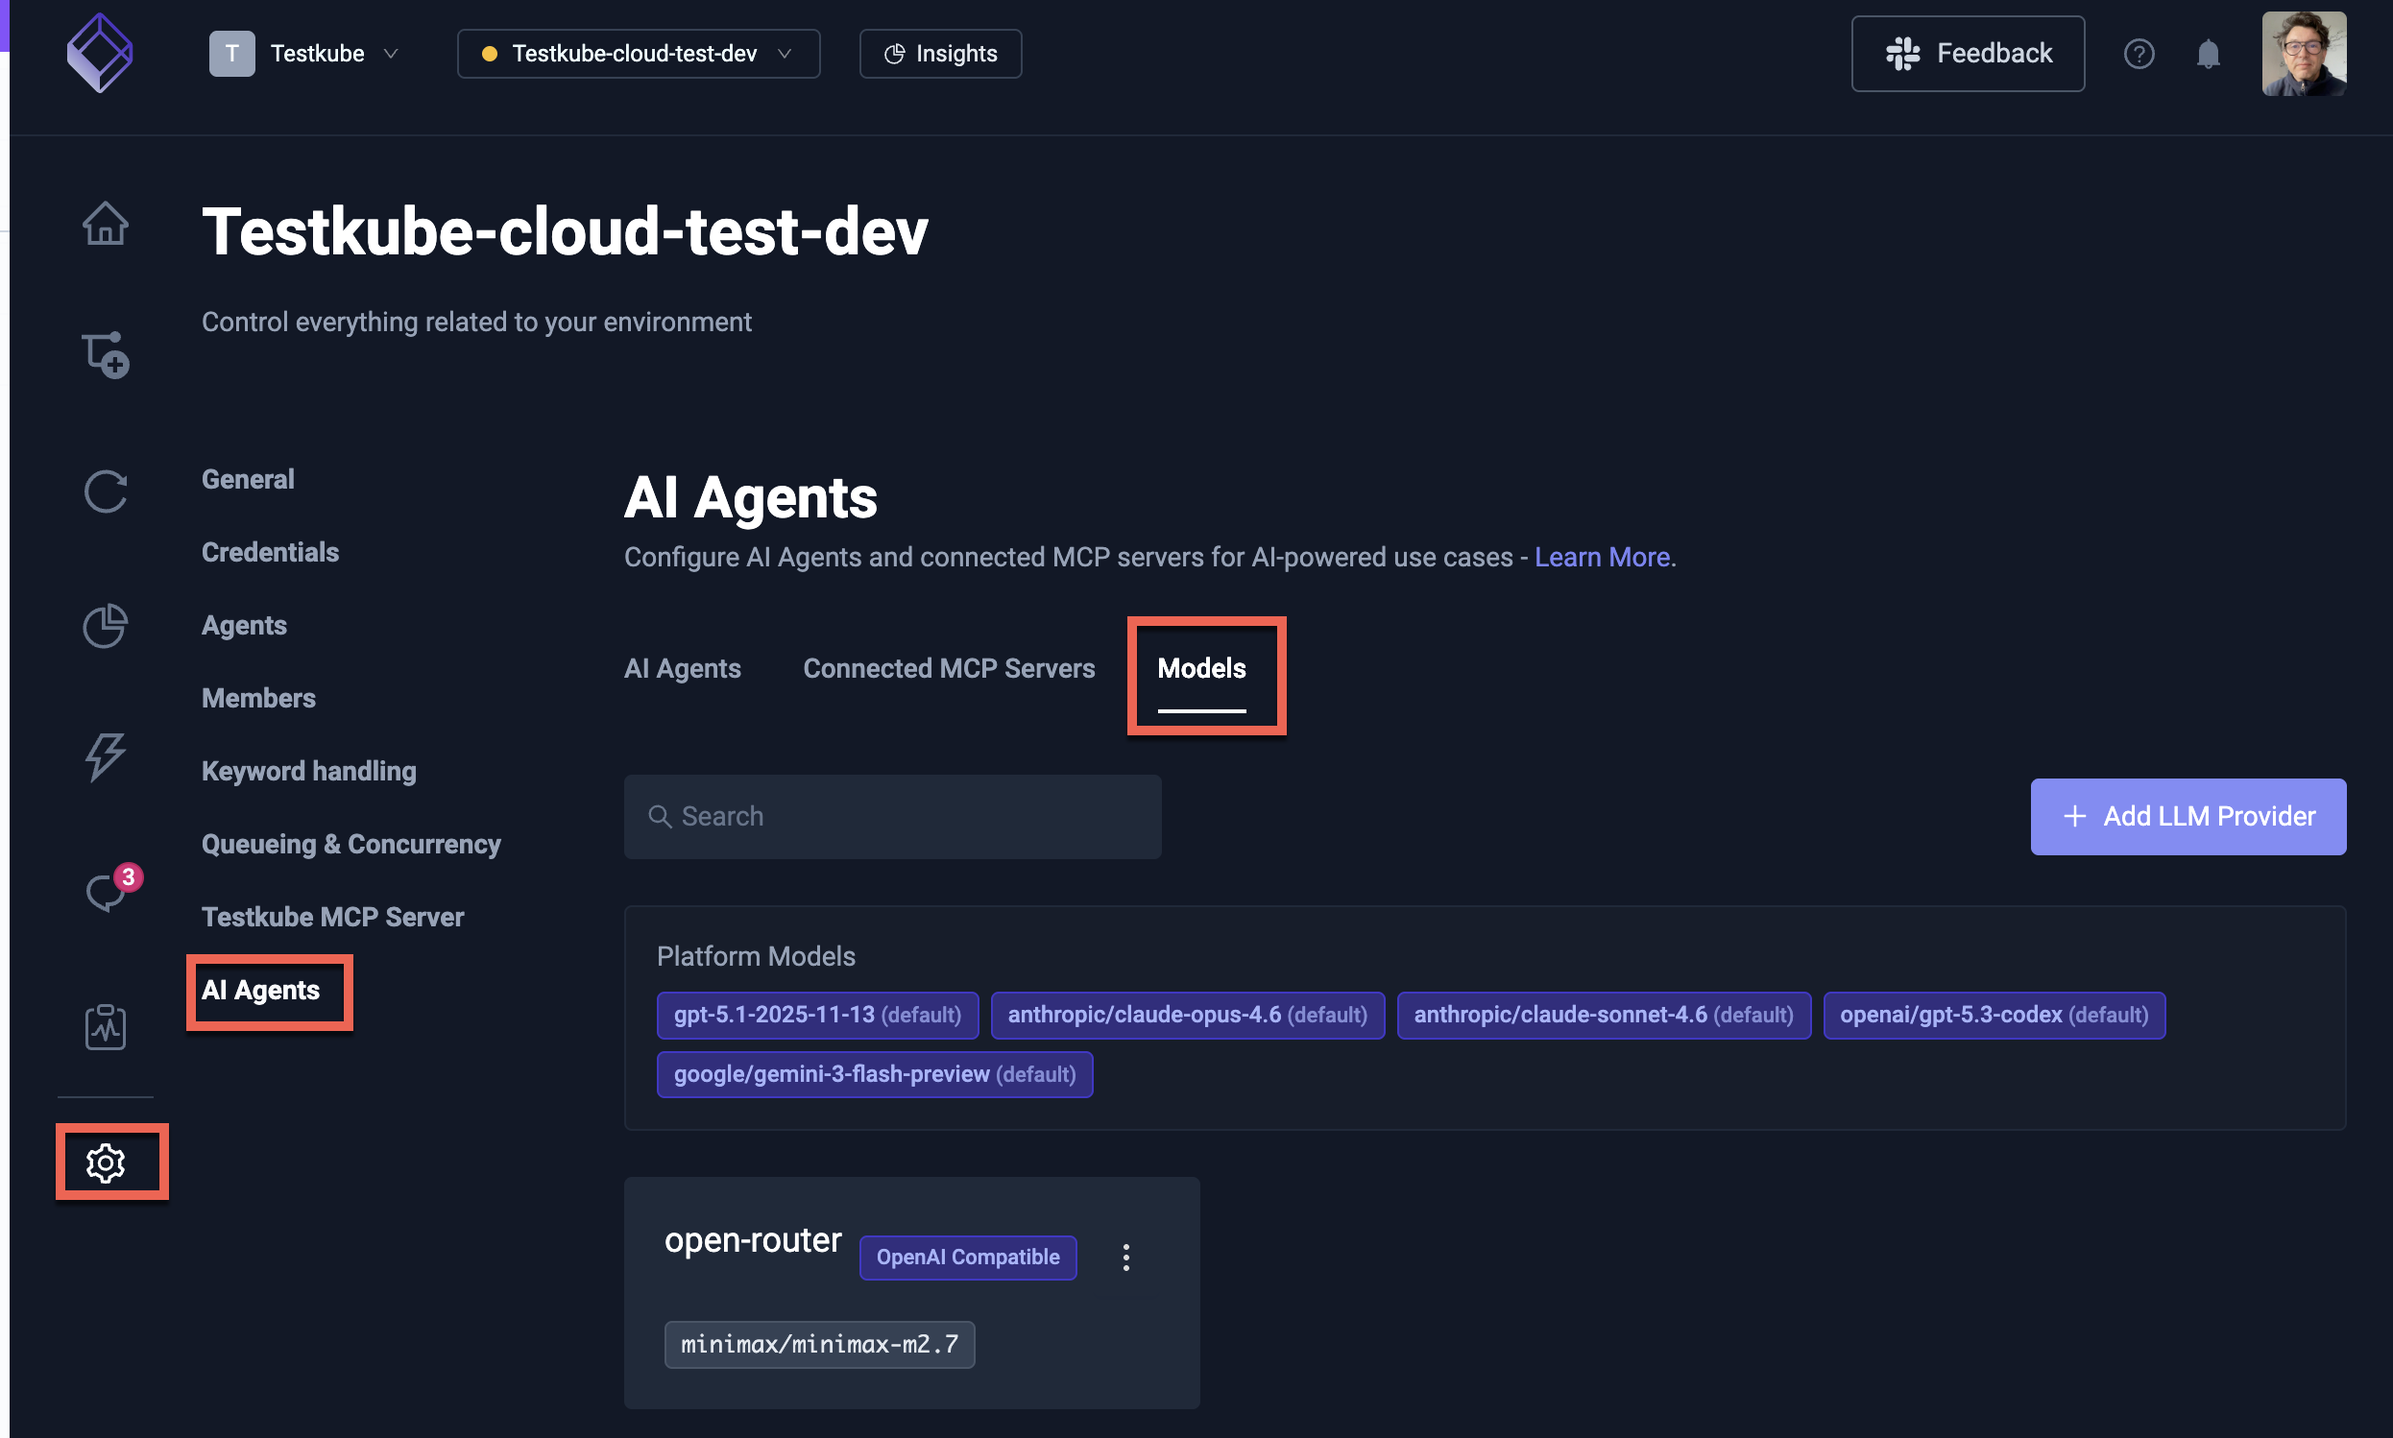
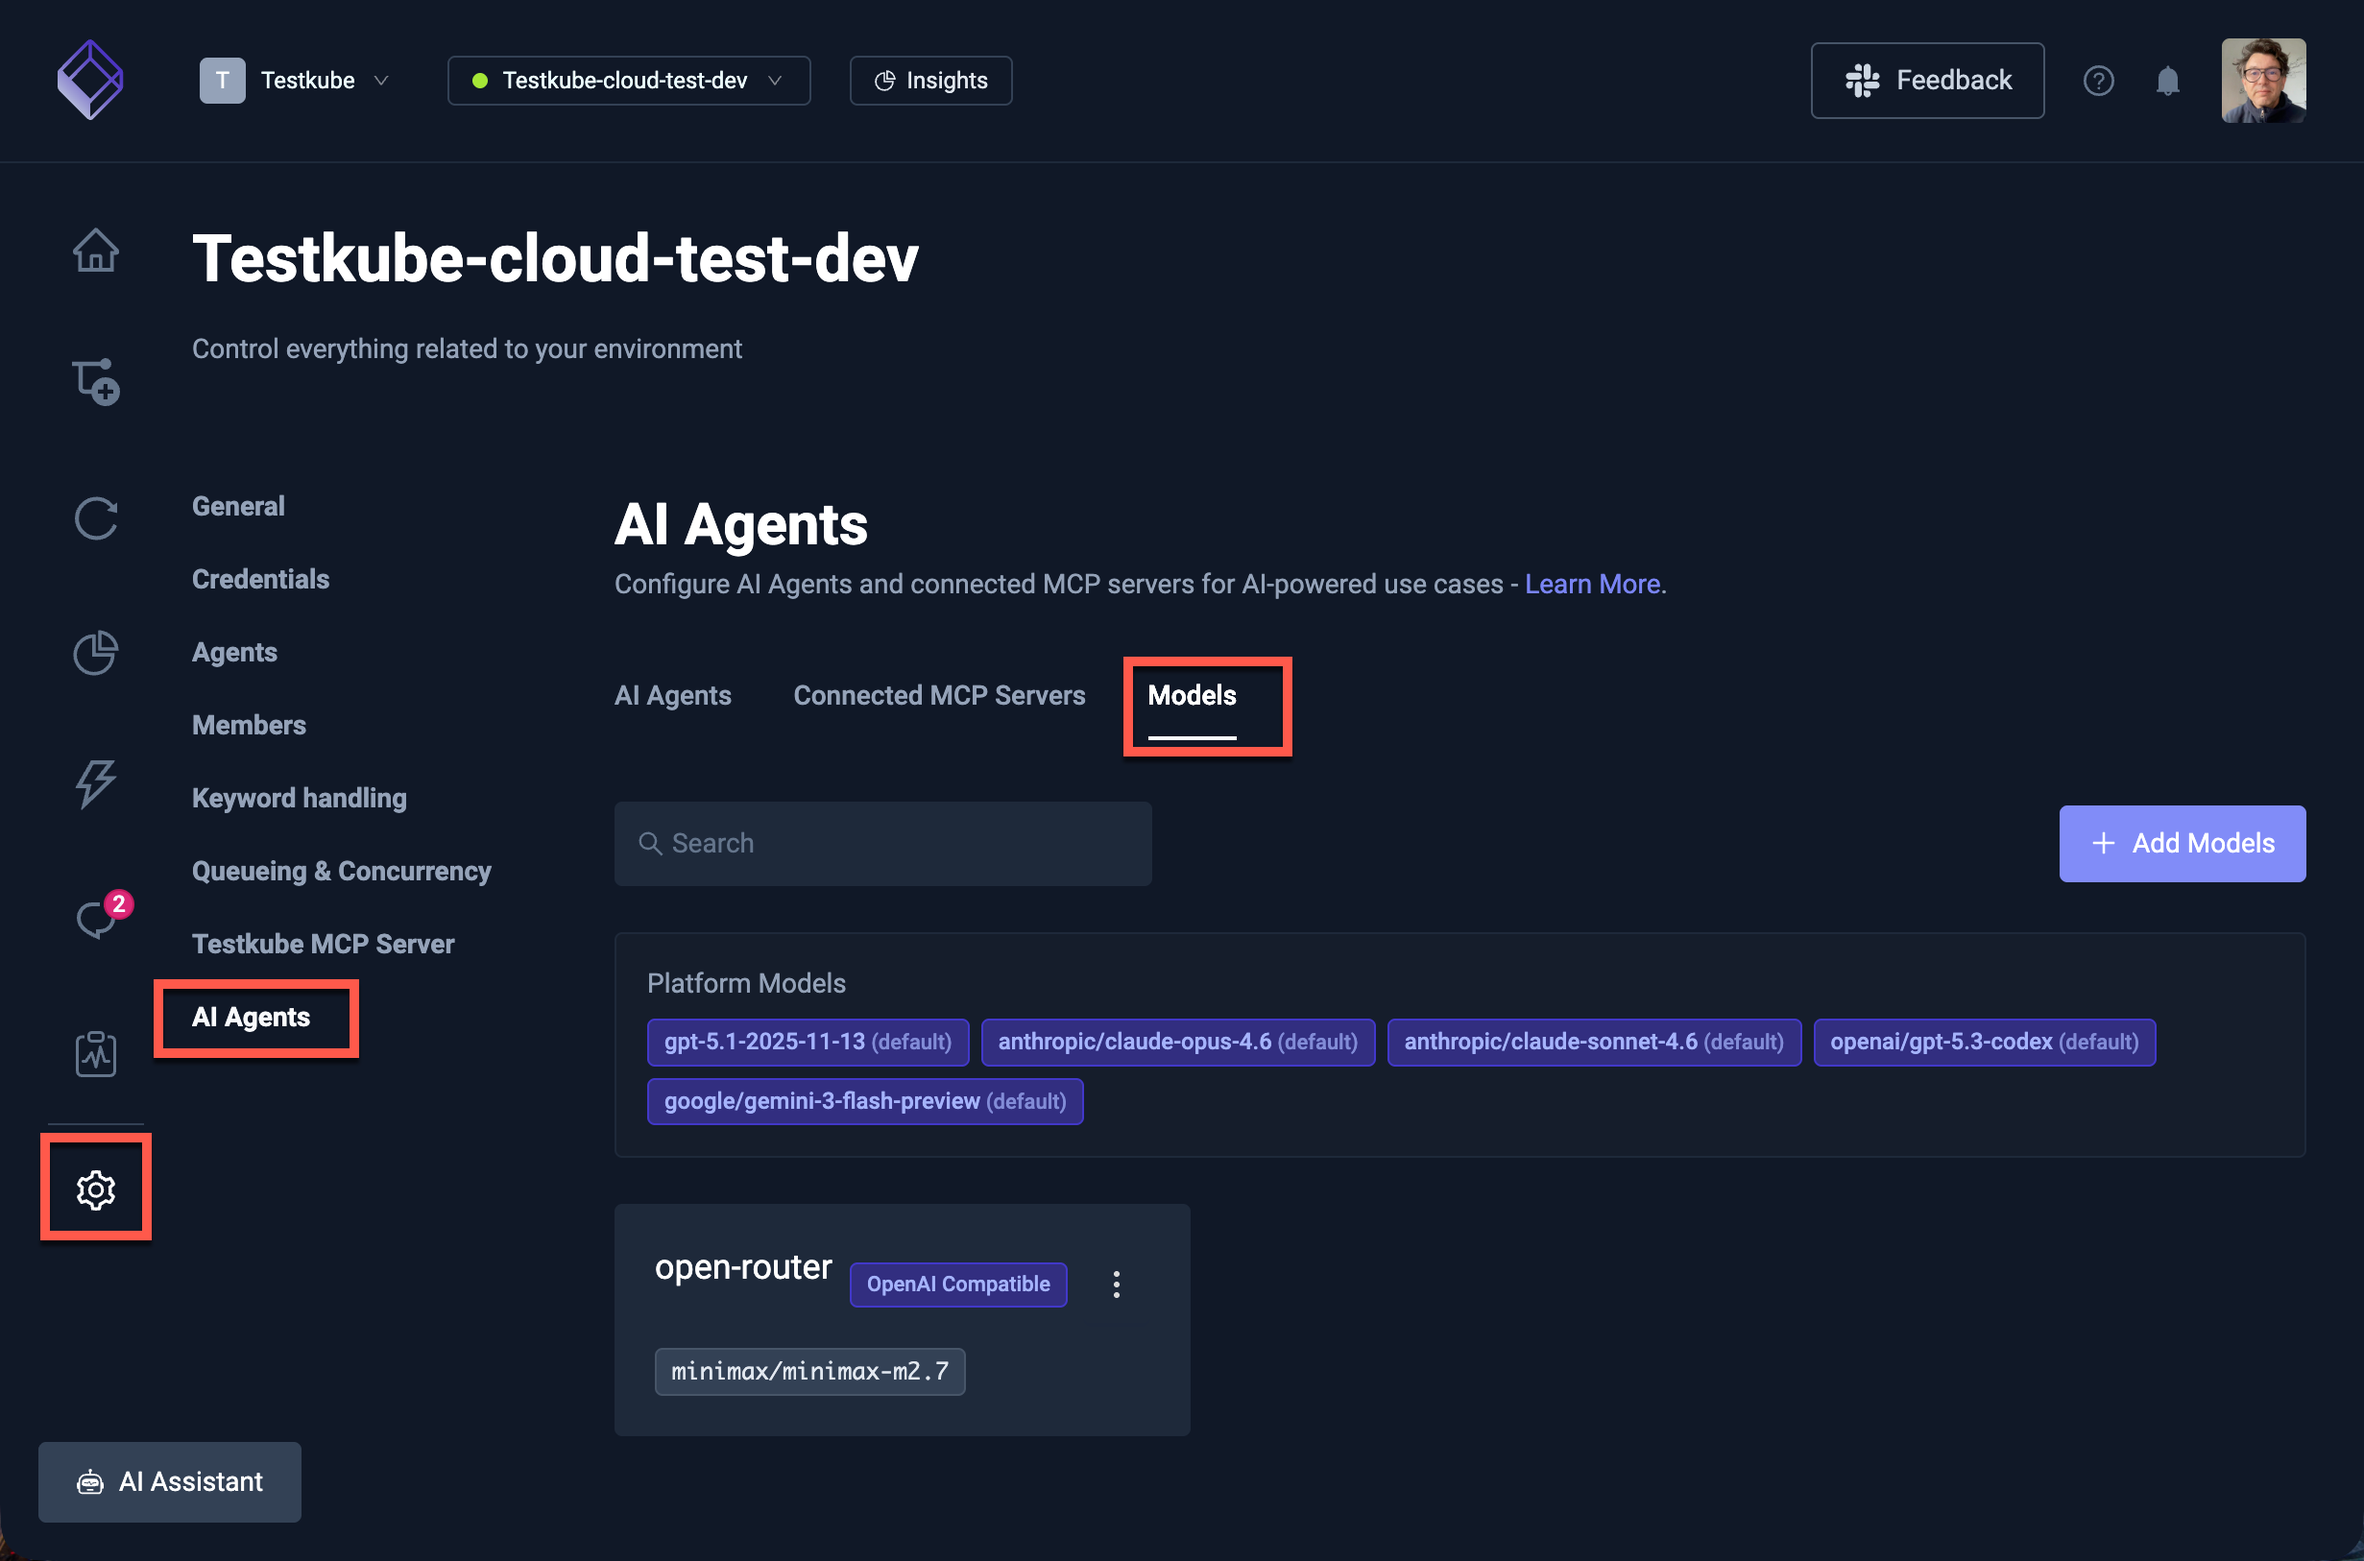
docs: update terminology from "LLM providers" to "models" across AI documentation for consistency and clarity

diff --git a/docs/articles/ai-assistant-overview.md b/docs/articles/ai-assistant-overview.md
@@ -61,7 +61,7 @@ for the conversation:
   (Testkube Helper, Troubleshoot, Design & Optimize, Analyze & Report) or any
   [custom agent](/articles/defining-ai-agents) you have created.
 - **Model** — Choose from the available LLM models (platform models and any
-  [custom LLM providers](/articles/ai-models) you have configured).
+  [custom models](/articles/ai-models) you have configured).
 
 Changing the agent or model takes effect for new messages in the current conversation.
 
@@ -87,6 +87,6 @@ tailored to your specific needs — see [Defining AI Agents](/articles/defining-
 - [AI Agent Chats](/articles/using-ai-agents) — Full chat management, filtering, tool approvals, and all the ways to start a chat
 - [Defining AI Agents](/articles/defining-ai-agents) — Create custom agents with tailored prompts and MCP tool access
 - [AI Agent Triggers](/articles/ai-triggers) — Automate agent execution based on workflow events or schedules
-- [Configuring AI Models](/articles/ai-models) — Add custom LLM providers and models
+- [Configuring AI Models](/articles/ai-models) — Add custom models
 - [Example Agents](/articles/ai-agent-examples-overview) — Ready-to-use agent configurations for QA and DevOps
 
